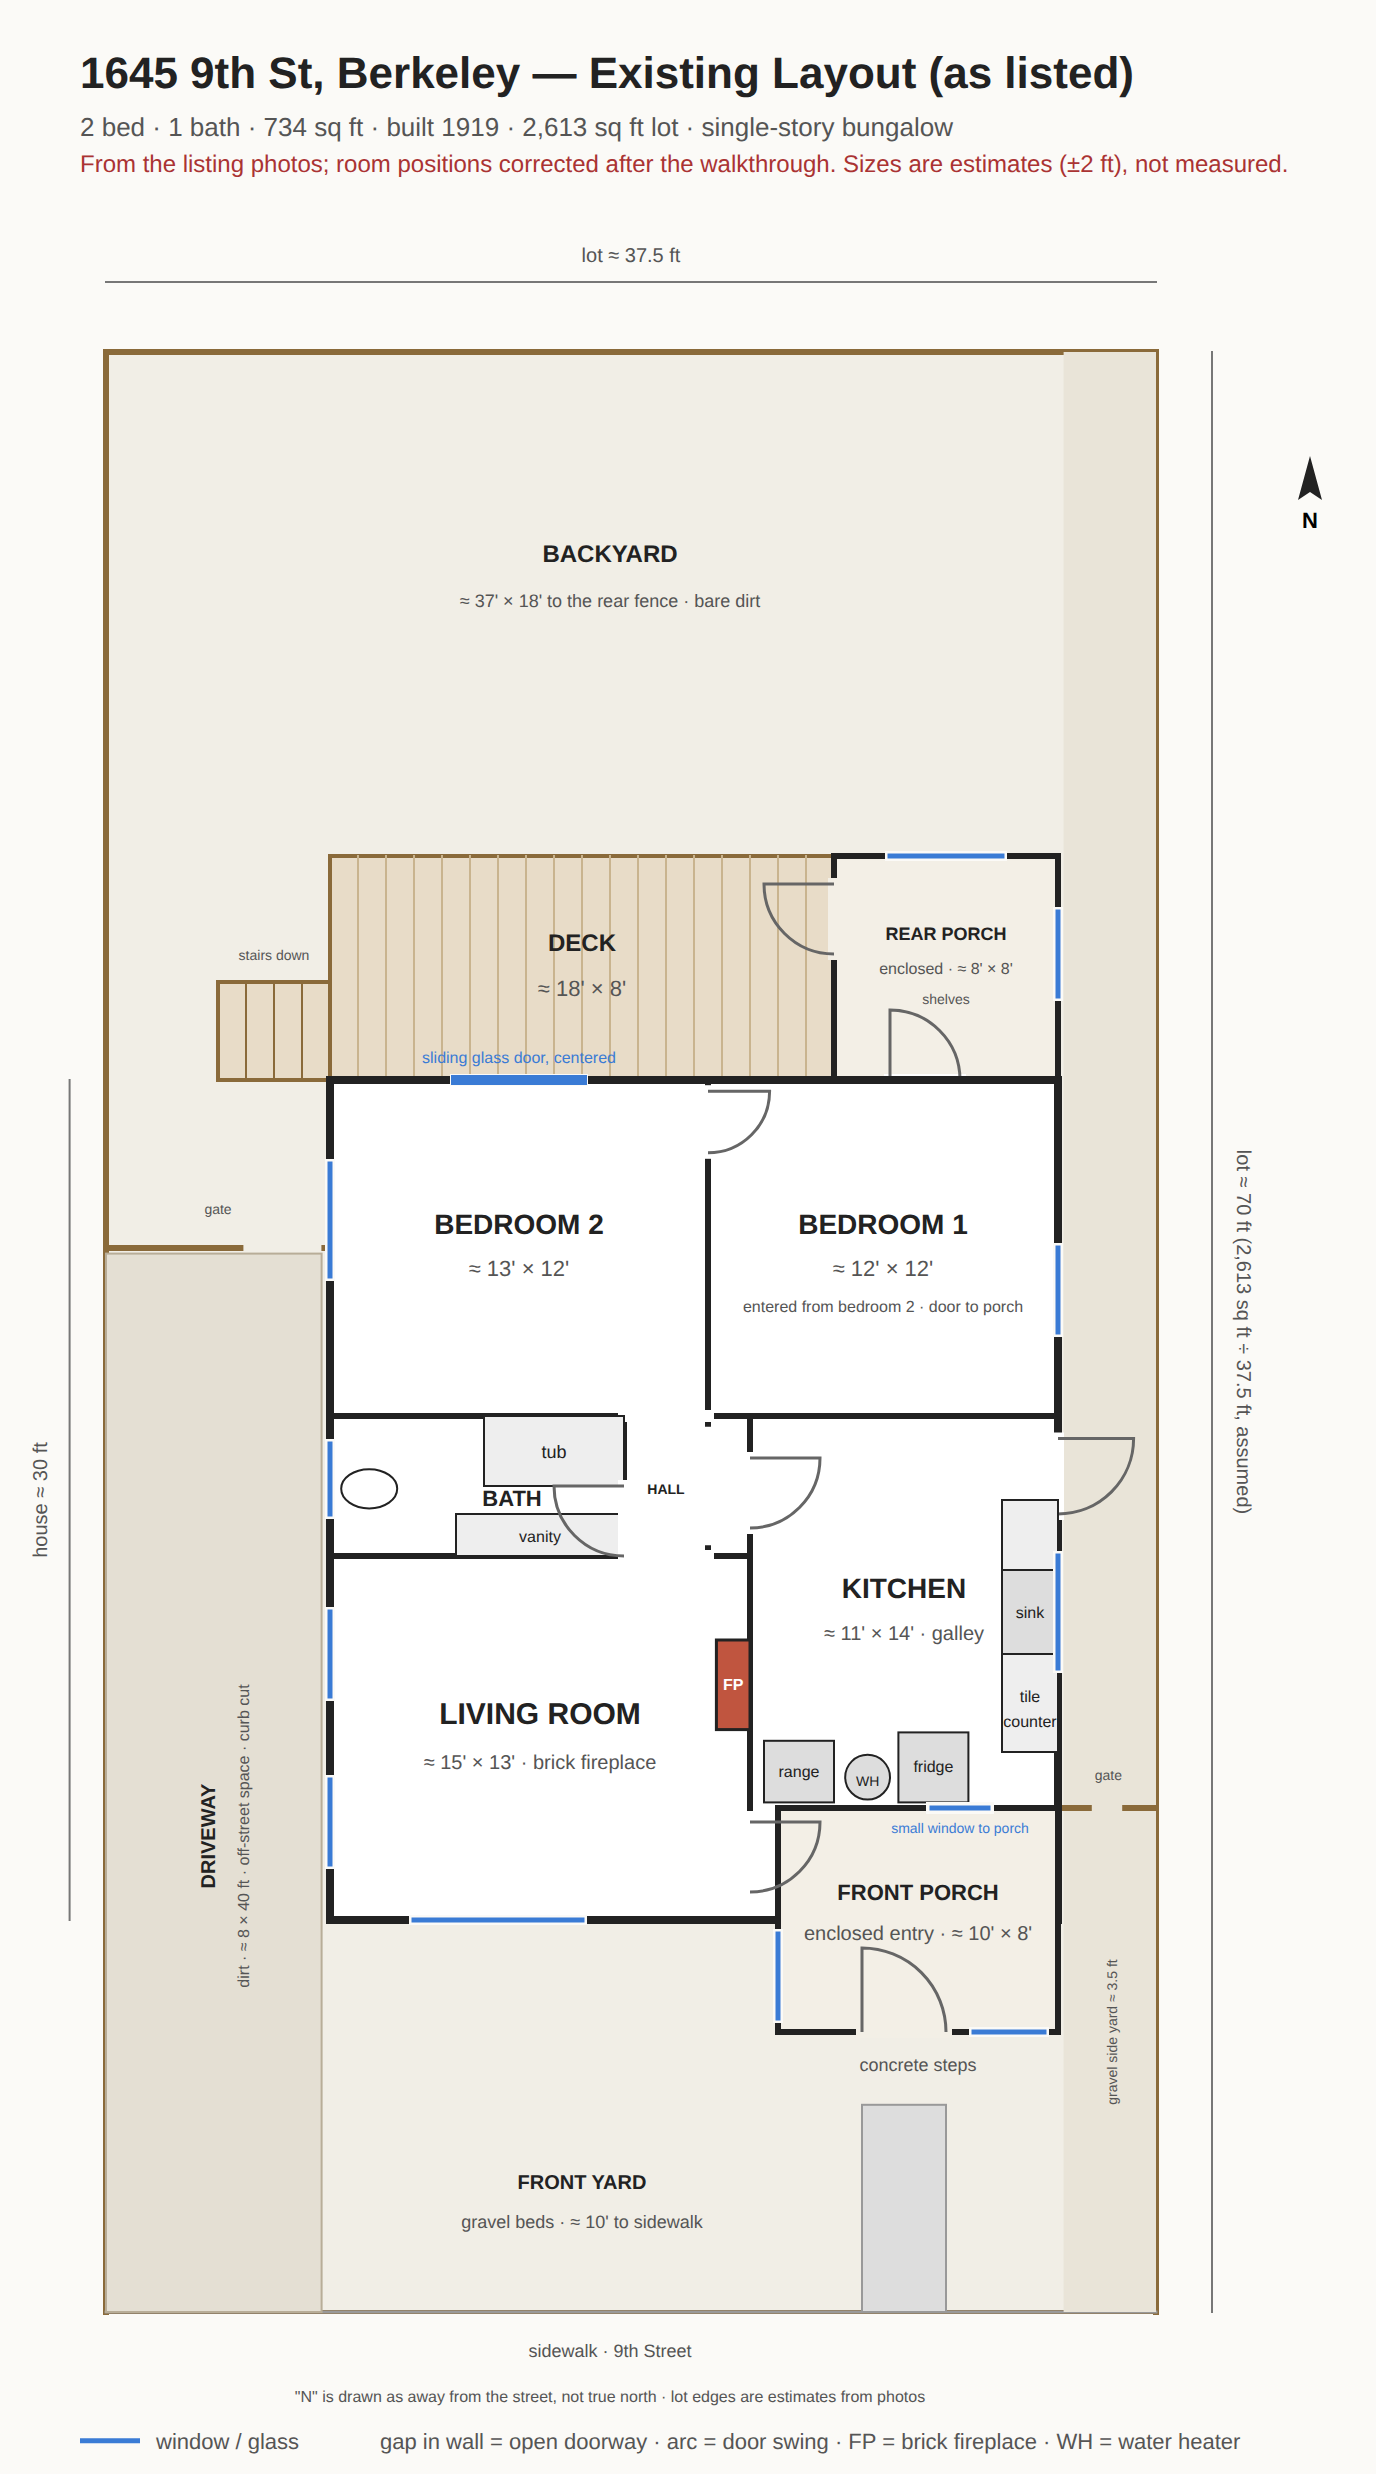
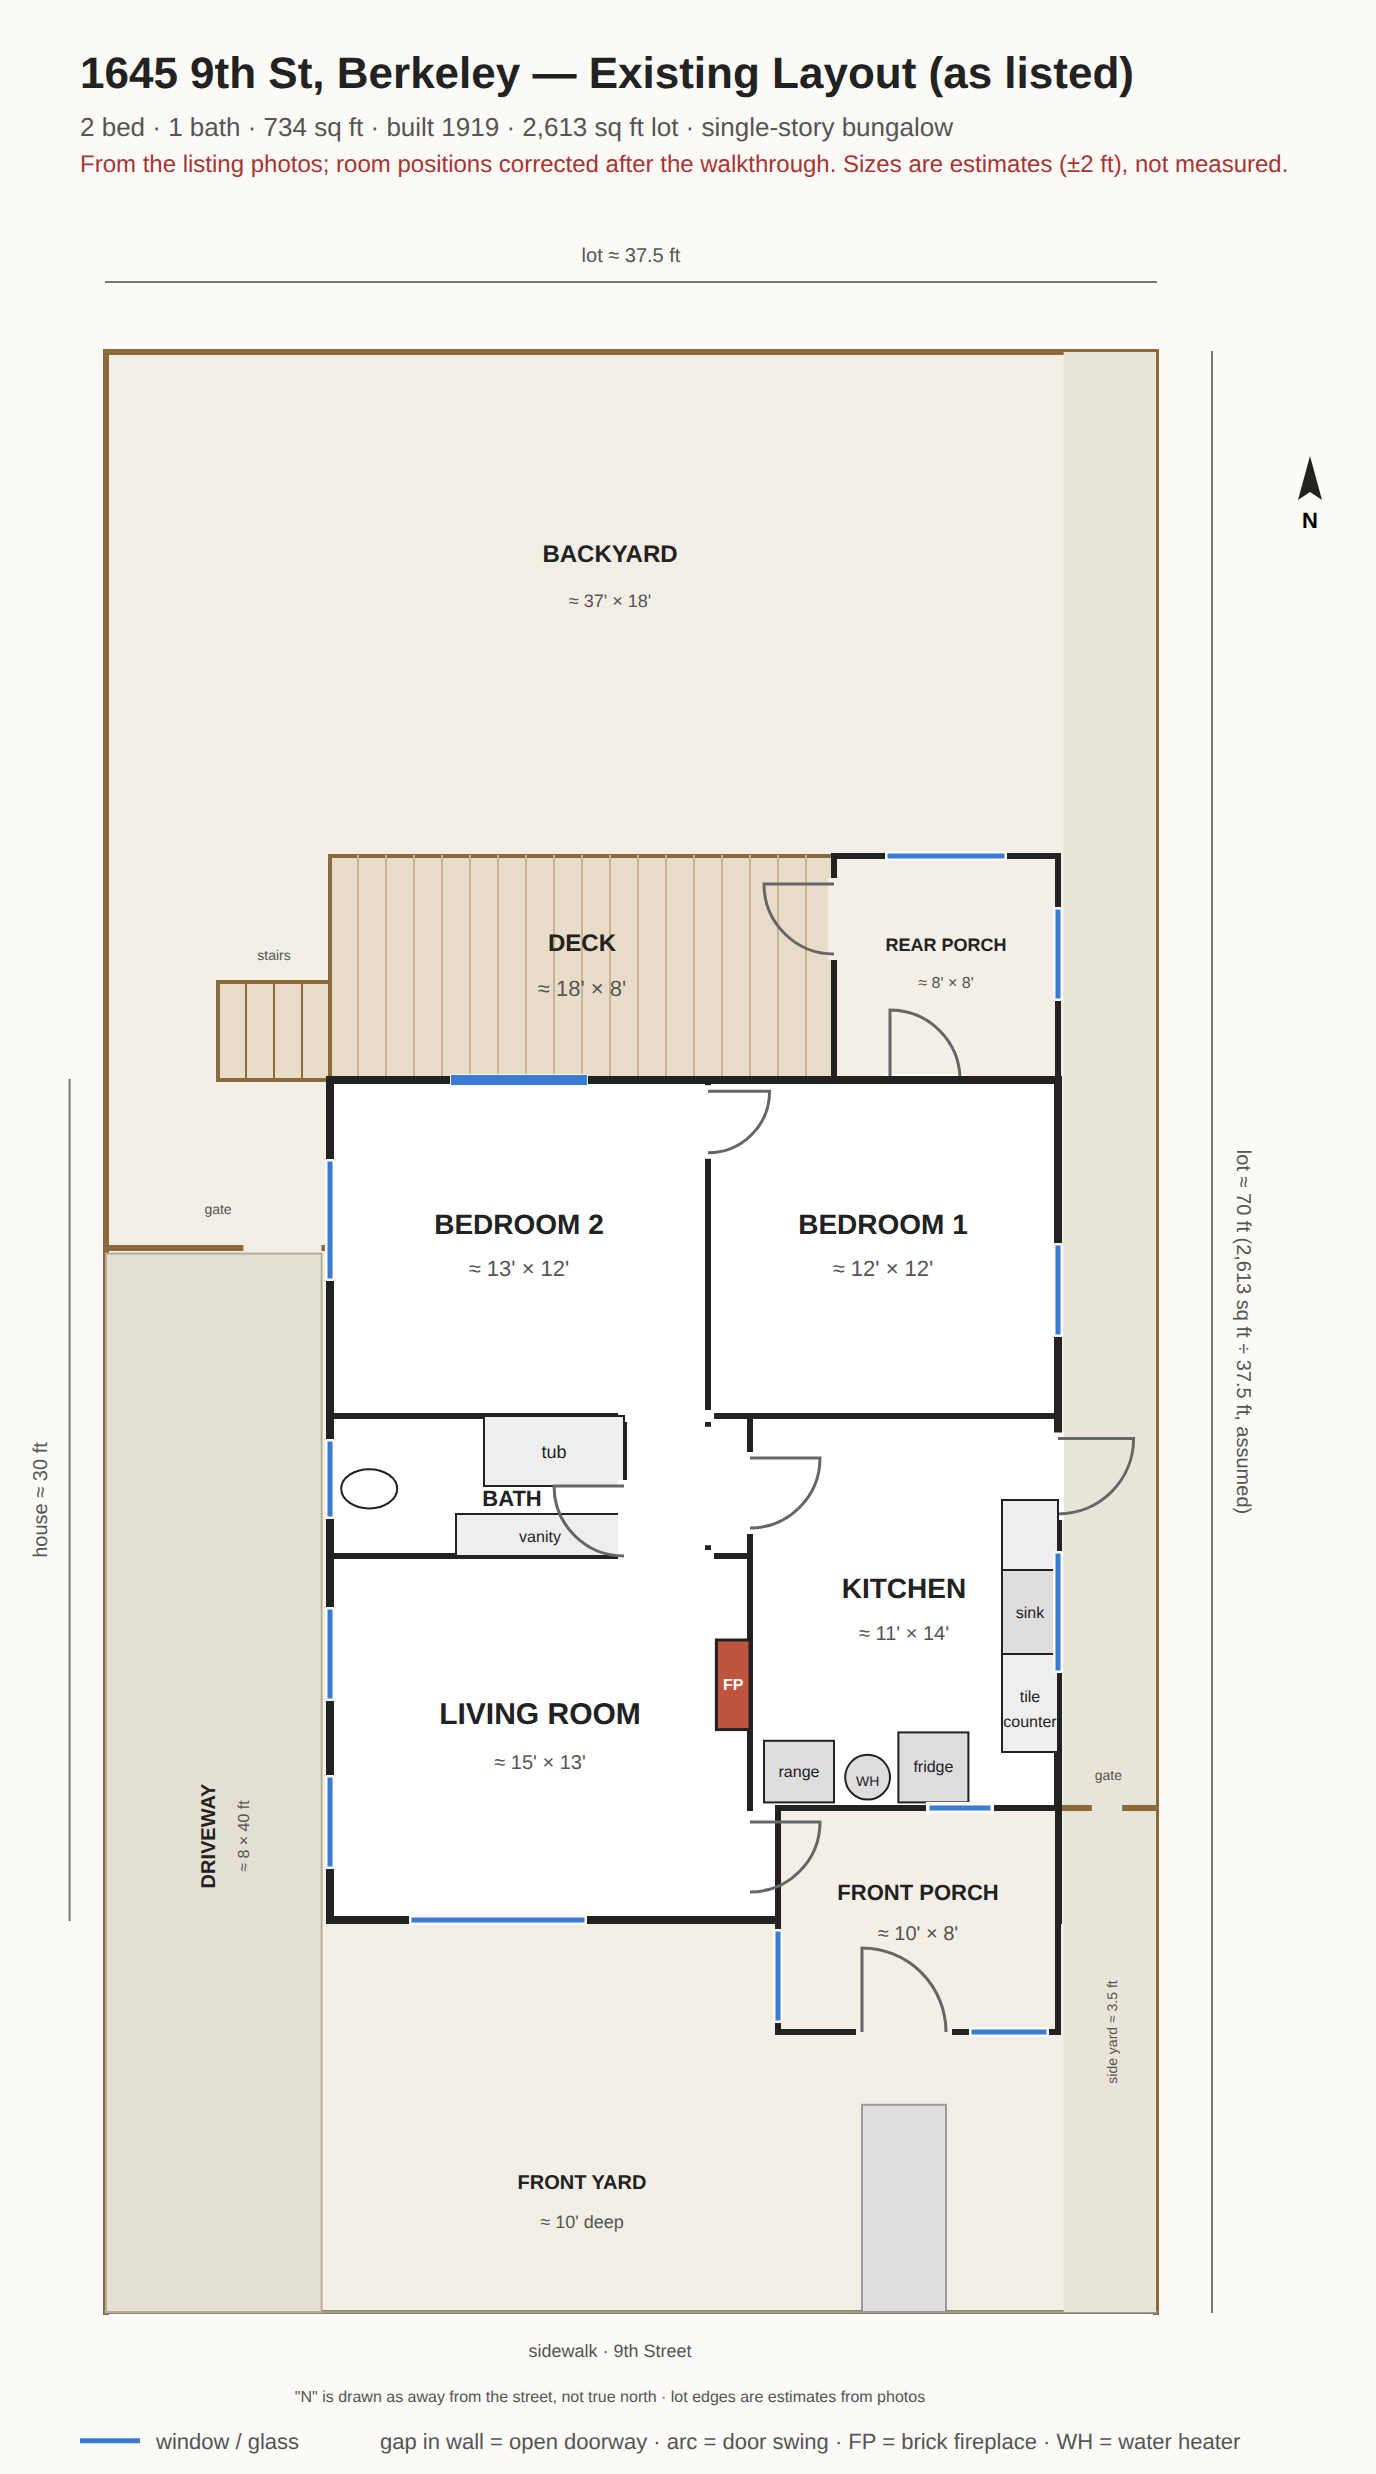
Strip the hall label and the descriptive small type; keep names and dimensions
Claude-Session: https://claude.ai/code/session_01QP4ZkLkW7cUrZ9x3HXMY7H

diff --git a/floor-plan/generate.py b/floor-plan/generate.py
@@ -52,14 +52,14 @@ def build(variant):
     line(-8,44,29.5,44,stroke="#999",sw=1.5)   # front lot line / sidewalk
     rect(26.2,-26,29.5,44,fill="#e9e4d8",stroke="none",sw=0)   # east side yard, gravel
     line(26,26,27.1,26,stroke="#8a6a3a",sw=3); line(28.4,26,29.5,26,stroke="#8a6a3a",sw=3); label(27.8,25,"gate",7,False,"#555")
-    p=P(28.1,34); out.append(f'<text transform="translate({p[0]},{p[1]}) rotate(-90)" font-size="7" text-anchor="middle" fill="#555">gravel side yard ≈ 3.5 ft</text>')
+    p=P(28.1,34); out.append(f'<text transform="translate({p[0]},{p[1]}) rotate(-90)" font-size="7" text-anchor="middle" fill="#555">side yard ≈ 3.5 ft</text>')
     line(-8,6,-3.2,6,stroke="#8a6a3a",sw=3); line(-0.2,6,0,6,stroke="#8a6a3a",sw=3); label(-4,4.8,"gate",7,False,"#555")   # side-yard gate (photos 01, 21)
-    label(10,-18.5,"BACKYARD",12); label(10,-16.9,"≈ 37' × 18' to the rear fence · bare dirt",9,False,"#555")
+    label(10,-18.5,"BACKYARD",12); label(10,-16.9,"≈ 37' × 18'",9,False,"#555")
     # driveway (photos 01, 02): dirt, from the curb along the west side of the house to the gate; the one off-street space
     rect(-8,6.2,-0.3,44,fill="#e4dfd3",stroke="#b8ad98",sw=1)
     p=P(-4.1,27); out.append(f'<text transform="translate({p[0]},{p[1]}) rotate(-90)" font-size="10" font-weight="bold" text-anchor="middle" fill="#222">DRIVEWAY</text>')
-    p=P(-2.9,27); out.append(f'<text transform="translate({p[0]},{p[1]}) rotate(-90)" font-size="8" text-anchor="middle" fill="#555">dirt · ≈ 8 × 40 ft · off-street space · curb cut</text>')
-    label(9,39.6,"FRONT YARD",10); label(9,41,"gravel beds · ≈ 10' to sidewalk",9,False,"#555")
+    p=P(-2.9,27); out.append(f'<text transform="translate({p[0]},{p[1]}) rotate(-90)" font-size="8" text-anchor="middle" fill="#555">≈ 8 × 40 ft</text>')
+    label(9,39.6,"FRONT YARD",10); label(9,41,"≈ 10' deep",9,False,"#555")
     rect(19,36.6,22,44,fill="#ddd",stroke="#999",sw=1)   # front walk
     label(10,45.6,"sidewalk · 9th Street",9,False,"#555")
     # deck (Keith): wider than the rear-left room, overlaps part of the rear-right room's back wall; stairs off its west end in line with the back wall
@@ -68,22 +68,21 @@ def build(variant):
     label(9,-4.6,"DECK",12); label(9,-3,"≈ 18' × 8'",11,False,"#555")
     rect(-4,-3.5,0,0,fill="#e8dcc8",stroke="#8a6a3a",sw=2)
     for i in range(1,4): line(-i,-3.5,-i,0,stroke="#8a6a3a",sw=1)
-    label(-2,-4.3,"stairs down",7,False,"#555")
+    label(-2,-4.3,"stairs",7,False,"#555")
     # rear porch bump-out (Keith: narrow; photo 11: shelves, plywood floor, small high window), flush with the deck edge
     rect(18,-8,26,0,fill="#f3efe6",stroke="#222",sw=3)
     if proposed:
         label(22,-5.2,"LAUNDRY /",9); label(22,-4.1,"MUDROOM",9); label(22,-2.9,"≈ 8' × 8'",8,False,"#555")
     else:
-        label(22,-5,"REAR PORCH",9); label(22,-3.8,"enclosed · ≈ 8' × 8'",8,False,"#555"); label(22,-2.7,"shelves",7,False,"#555")
+        label(22,-4.6,"REAR PORCH",9); label(22,-3.3,"≈ 8' × 8'",8,False,"#555")
     window(20,-8,24,-8); window(26,-6,26,-3)
     door(18,-7,2.5,'w',gap="#f3efe6")                       # porch -> deck
     door(20,0,2.5,'n')                                      # bedroom 1 -> porch (photo 16)
     # main house
     rect(0,0,26,30,fill="#fff",stroke="#222",sw=4)
     rect(16,26,26,34,fill="#f3efe6",stroke="#222",sw=3)
-    label(21,29.3,"FRONT PORCH",11); label(21,30.7,"enclosed entry · ≈ 10' × 8'",10,False,"#555")
+    label(21,29.3,"FRONT PORCH",11); label(21,30.7,"≈ 10' × 8'",10,False,"#555")
     door(19,34,3,'n',gap="#f3efe6"); window(16,30.5,16,33.5); window(23,34,25.5,34)
-    label(21,35.4,"concrete steps",9,False,"#555")
     # interior walls
     line(13.5,0,13.5,12); line(13.5,12,26,12)   # partition between the rear rooms, in line with the hall's east wall; rear-left a little wider than rear-right (Keith)
     line(0,12,10.5,12); line(10.5,12,10.5,17)   # bath: 0-10.5 × 12-17
@@ -101,40 +100,39 @@ def build(variant):
     label(6.5,15.2,"BATH",11)
     door(10.5,14.5,2.5,'w')                                # bath door, off the hall
     if not proposed:
-        label(12,14.8,"HALL",7)   # the red-tagged floor furnace grate is in this hall (photos 09, 12, 14, 20); not drawn
+        # the red-tagged floor furnace grate is in this hall (photos 09, 12, 14, 20); not drawn
         opening(13.5,12.6,13.5,16.4); door(15,13.5,2.5,'e')  # hall -> short passage -> kitchen door (photos 12, 14)
         door(26,12.8,2.7,'e')                                # kitchen side door out to the east side yard (Keith)
         # existing: bedroom 2 rear-left, bedroom 1 rear-right, kitchen front-right (L-shaped: the strip beside the hall plus the room behind the porch)
-        line(4.5,0,9,0,stroke="#fbfaf7",sw=6); line(4.5,0,9,0,stroke="#3a7bd5",sw=5); label(6.75,-0.6,"sliding glass door, centered",8,False,"#3a7bd5")
+        line(4.5,0,9,0,stroke="#fbfaf7",sw=6); line(4.5,0,9,0,stroke="#3a7bd5",sw=5)
         label(6.75,5.5,"BEDROOM 2",14); label(6.75,7,"≈ 13' × 12'",11,False,"#555")
-        label(19.75,5.5,"BEDROOM 1",14); label(19.75,7,"≈ 12' × 12'",11,False,"#555"); label(19.75,8.3,"entered from bedroom 2 · door to porch",8,False,"#555")
+        label(19.75,5.5,"BEDROOM 1",14); label(19.75,7,"≈ 12' × 12'",11,False,"#555")
         # kitchen (photos 08, 10, 12): tile counter and sink under the east window, range + WH + small window on the porch wall, fridge beside, pantry shelves at the north end
         rect(24,15,26,24,fill="#eee",stroke="#222",sw=1); label(25,22.2,"tile",8,False); label(25,23.1,"counter",8,False)
         rect(24,17.5,26,20.5,fill="#ddd",stroke="#222",sw=1); label(25,19.2,"sink",8,False)
         rect(15.5,23.6,18,25.8,fill="#ddd",stroke="#222",sw=1); label(16.75,24.9,"range",8,False)
         circle(19.2,24.9,0.8); label(19.2,25.2,"WH",7,False)
         rect(20.3,23.3,22.8,25.8,fill="#ddd",stroke="#222",sw=1); label(21.55,24.7,"fridge",8,False)
-        line(21.5,26,23.5,26,stroke="#fbfaf7",sw=6); line(21.5,26,23.5,26,stroke="#3a7bd5",sw=2.5); label(22.5,26.9,"small window to porch",7,False,"#3a7bd5")
-        label(20.5,18.5,"KITCHEN",14); label(20.5,20,"≈ 11' × 14' · galley",10,False,"#555")
+        line(21.5,26,23.5,26,stroke="#fbfaf7",sw=6); line(21.5,26,23.5,26,stroke="#3a7bd5",sw=2.5)
+        label(20.5,18.5,"KITCHEN",14); label(20.5,20,"≈ 11' × 14'",10,False,"#555")
     else:
-        label(12,14.8,"HALL",7)
         # the old kitchen's strip beside the hall is bedroom 1's entry; the old kitchen door is the opening
         opening(13.5,12.6,13.5,16.4); door(15,13.5,2.5,'e')
         door(26,12.8,2.7,'e')                                # existing side door to the east side yard
         # kitchen rear-left (eat-in, opens to the deck); its old corner door into the closet gets closed
-        line(4.5,0,9,0,stroke="#fbfaf7",sw=6); line(4.5,0,9,0,stroke="#3a7bd5",sw=5); label(6.75,-0.6,"sliding / French door to deck",8,False,"#3a7bd5")
+        line(4.5,0,9,0,stroke="#fbfaf7",sw=6); line(4.5,0,9,0,stroke="#3a7bd5",sw=5)
         rect(0.2,1.5,2,11.8,fill="#eee",stroke="#222",sw=1); label(1.1,3.4,"counter",7,False)
         rect(0.2,4.5,2,7,fill="#ddd",stroke="#222",sw=1); label(1.1,5.9,"sink",7,False)
         rect(0.2,8,2.2,10.5,fill="#ddd",stroke="#222",sw=1); label(1.2,9.4,"range",7,False)
         rect(3,9.5,5.5,11.8,fill="#ddd",stroke="#222",sw=1); label(4.25,10.8,"fridge",8,False)
         rect(5,2.5,10,5.5,fill="#f4e9d0",stroke="#8a6a3a",sw=1); label(7.5,4.3,"table / island",8,False,"#555")
-        label(7.5,7.6,"KITCHEN (eat-in)",14); label(7.5,9,"≈ 13' × 12' · opens to deck",10,False,"#555")
-        label(19.75,6,"BEDROOM 2",13); label(19.75,7.4,"≈ 12' × 12' · door to mudroom · no closet",9,False,"#555")
-        label(20.5,18.5,"BEDROOM 1",14); label(20.5,20,"≈ 11' × 14' · former kitchen · no closet",10,False,"#555")
+        label(7.5,7.6,"KITCHEN (eat-in)",14); label(7.5,9,"≈ 13' × 12'",10,False,"#555")
+        label(19.75,6,"BEDROOM 2",13); label(19.75,7.4,"≈ 12' × 12'",10,False,"#555")
+        label(20.5,18.5,"BEDROOM 1",14); label(20.5,20,"≈ 11' × 14'",10,False,"#555")
     # shared: doors, windows, labels
     door(15,26.5,2.5,'e')
     window(0,3,0,7); window(0,13,0,15.5); window(0,19,0,22); window(0,25,0,28); window(3,30,9,30); window(26,17,26,21); window(26,6,26,9)
-    label(7.5,23,"LIVING ROOM",15); label(7.5,24.6,"≈ 15' × 13' · brick fireplace",10,False,"#555")
+    label(7.5,23,"LIVING ROOM",15); label(7.5,24.6,"≈ 15' × 13'",10,False,"#555")
     # dims / north / street / legend
     line(-9.3,0,-9.3,30,stroke="#777",sw=1); p=P(-10.1,15)
     out.append(f'<text transform="translate({p[0]},{p[1]}) rotate(-90)" font-size="10" text-anchor="middle" fill="#555">house ≈ 30 ft</text>')
